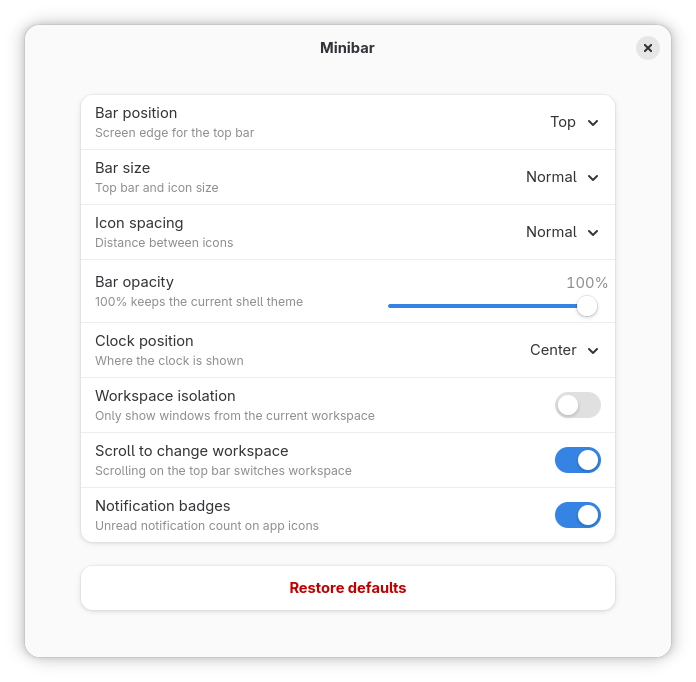
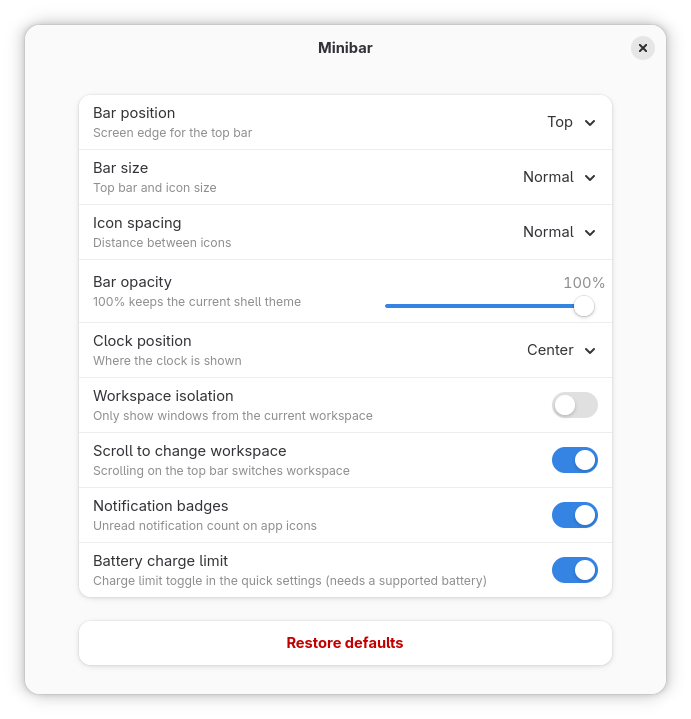
✨ Add battery charge limit toggle in quick settings
Mirror the Settings > Power "Battery Charge" switch as a Charge Limit quick
settings toggle, added only when UPower reports a battery whose firmware
supports charge thresholds. The composite DisplayDevice the shell talks to
always reports ChargeThresholdSupported=false, so the real battery device is
looked up once at enable() by enumerating UPower devices.

The checked state follows UPower (g-properties-changed), never the click, so
a failed call cannot leave the toggle lying and a change made from
gnome-control-center shows up live. Setting the limit needs no auth: the
polkit action is allow_active=yes.

Guarded by the new battery-toggle setting (on by default), applied live.
Settings tables in the README and the spec are reordered to match the prefs
window, and the settings screenshot is refreshed.

Claude-Session: https://claude.ai/code/session_0182kC322KZRRkmEopp2QtQc

diff --git a/src/battery.js b/src/battery.js
@@ -1,0 +1,160 @@
+import Gio from 'gi://Gio';
+import GObject from 'gi://GObject';
+import UPower from 'gi://UPowerGlib';
+
+import * as Main from 'resource:///org/gnome/shell/ui/main.js';
+import {QuickToggle, SystemIndicator} from 'resource:///org/gnome/shell/ui/quickSettings.js';
+
+const BUS_NAME = 'org.freedesktop.UPower';
+const OBJECT_PATH = '/org/freedesktop/UPower';
+
+const UPowerInterface = `
+<node>
+  <interface name="org.freedesktop.UPower">
+    <method name="EnumerateDevices">
+      <arg type="ao" direction="out" name="devices"/>
+    </method>
+  </interface>
+</node>`;
+
+// Only the members we use. The shell ships its own UPower.Device XML
+// (gnome-shell-dbus-interfaces) but it stops at ChargeThresholdEnabled: the
+// thresholds and EnableChargeThreshold() are not in it, so declare them here.
+// Note the composite /devices/DisplayDevice the shell talks to always reports
+// ChargeThresholdSupported=false — the real battery device is the only source.
+const DeviceInterface = `
+<node>
+  <interface name="org.freedesktop.UPower.Device">
+    <method name="EnableChargeThreshold">
+      <arg type="b" direction="in" name="enable"/>
+    </method>
+    <property name="Type" type="u" access="read"/>
+    <property name="ChargeStartThreshold" type="u" access="read"/>
+    <property name="ChargeEndThreshold" type="u" access="read"/>
+    <property name="ChargeThresholdEnabled" type="b" access="read"/>
+    <property name="ChargeThresholdSupported" type="b" access="read"/>
+  </interface>
+</node>`;
+
+const UPowerProxy = Gio.DBusProxy.makeProxyWrapper(UPowerInterface);
+const DeviceProxy = Gio.DBusProxy.makeProxyWrapper(DeviceInterface);
+
+/** Promisified proxy construction (the wrappers only take a callback). */
+function makeProxy(Wrapper, path) {
+    return new Promise((resolve, reject) => {
+        new Wrapper(Gio.DBus.system, BUS_NAME, path,
+            (proxy, error) => error ? reject(error) : resolve(proxy));
+    });
+}
+
+/**
+ * Quick settings toggle mirroring the "Battery Charge" switch of the
+ * Settings › Power panel: on = preserve battery health (UPower keeps the
+ * charge inside the firmware thresholds), off = charge to 100%.
+ */
+const ChargeLimitToggle = GObject.registerClass(
+class ChargeLimitToggle extends QuickToggle {
+    _init(proxy) {
+        super._init({
+            title: 'Charge Limit',
+            iconName: 'battery-good-symbolic',
+        });
+        this._proxy = proxy;
+
+        // No toggleMode: the checked state follows UPower, never the click,
+        // so a refused or failed call cannot leave the toggle lying.
+        this.connectObject('clicked', () => this._toggle(), this);
+        this._proxy.connectObject('g-properties-changed', () => this._sync(), this);
+        this._sync();
+    }
+
+    _toggle() {
+        this._proxy.EnableChargeThresholdAsync(!this.checked).catch(error => {
+            logError(error, 'minibar: cannot change the battery charge limit');
+            this._sync();
+        });
+    }
+
+    _sync() {
+        const checked = this._proxy.ChargeThresholdEnabled;
+        const end = this._proxy.ChargeEndThreshold;
+        this.set({
+            checked,
+            // Thresholds read 0 when the limit is off, and firmwares that only
+            // expose a start threshold report an end of 0 too.
+            subtitle: checked && end > 0 && end < 100 ? `${end}%` : '',
+        });
+    }
+});
+
+const ChargeLimitIndicator = GObject.registerClass(
+class ChargeLimitIndicator extends SystemIndicator {
+    _init(proxy) {
+        super._init();
+        this.quickSettingsItems.push(new ChargeLimitToggle(proxy));
+    }
+});
+
+/**
+ * Adds the charge limit toggle to the system quick settings, but only when
+ * UPower reports a battery whose firmware supports charge thresholds
+ * (desktops, older laptops and unsupported firmwares get nothing at all).
+ * The lookup runs once at enable(); batteries are not expected to hotplug.
+ */
+export class BatteryChargeLimit {
+    constructor(settings) {
+        this._settings = settings;
+        this._destroyed = false;
+        this._proxy = null;
+        this._indicator = null;
+
+        this._settings.connectObject(
+            'changed::battery-toggle', () => this._sync(), this);
+        this._findBattery().catch(error =>
+            logError(error, 'minibar: cannot query UPower'));
+    }
+
+    async _findBattery() {
+        const upower = await makeProxy(UPowerProxy, OBJECT_PATH);
+        const [paths] = await upower.EnumerateDevicesAsync();
+
+        for (const path of paths) {
+            if (this._destroyed)
+                return;
+            const device = await makeProxy(DeviceProxy, path);
+            if (device.Type === UPower.DeviceKind.BATTERY && device.ChargeThresholdSupported) {
+                this._proxy = device;
+                break;
+            }
+        }
+
+        if (!this._destroyed)
+            this._sync();
+    }
+
+    _sync() {
+        const wanted = this._proxy !== null &&
+            this._settings.get_boolean('battery-toggle');
+        if (wanted === (this._indicator !== null))
+            return;
+
+        if (wanted) {
+            this._indicator = new ChargeLimitIndicator(this._proxy);
+            Main.panel.statusArea.quickSettings.addExternalIndicator(this._indicator);
+        } else {
+            // The grid holds the items, the panel holds the indicator: both
+            // have to go (addExternalIndicator() has no counterpart).
+            this._indicator.quickSettingsItems.forEach(item => item.destroy());
+            this._indicator.destroy();
+            this._indicator = null;
+        }
+    }
+
+    destroy() {
+        this._destroyed = true;
+        this._settings.disconnectObject(this);
+        this._proxy = null;
+        this._sync();
+        this._settings = null;
+    }
+}

diff --git a/src/extension.js b/src/extension.js
@@ -1,18 +1,23 @@
 import {Extension} from 'resource:///org/gnome/shell/extensions/extension.js';
 import * as Main from 'resource:///org/gnome/shell/ui/main.js';
 
+import {BatteryChargeLimit} from './battery.js';
 import {NotificationsMonitor} from './notifications.js';
 import {Taskbar} from './taskbar.js';
 
 export default class TaskbarExtension extends Extension {
     enable() {
+        const settings = this.getSettings();
         this._notificationsMonitor = new NotificationsMonitor();
-        this._taskbar = new Taskbar(this._notificationsMonitor, this.getSettings());
+        this._taskbar = new Taskbar(this._notificationsMonitor, settings);
         // Last position of the left box, i.e. right of the workspace indicator.
         Main.panel._leftBox.add_child(this._taskbar);
+        this._batteryChargeLimit = new BatteryChargeLimit(settings);
     }
 
     disable() {
+        this._batteryChargeLimit?.destroy();
+        this._batteryChargeLimit = null;
         this._taskbar?.destroy();
         this._taskbar = null;
         this._notificationsMonitor?.destroy();

diff --git a/src/prefs.js b/src/prefs.js
@@ -88,6 +88,14 @@ export default class TaskbarPrefs extends ExtensionPreferences {
             Gio.SettingsBindFlags.DEFAULT);
         group.add(badgesRow);
 
+        const batteryRow = new Adw.SwitchRow({
+            title: 'Battery charge limit',
+            subtitle: 'Charge limit toggle in the quick settings (needs a supported battery)',
+        });
+        settings.bind('battery-toggle', batteryRow, 'active',
+            Gio.SettingsBindFlags.DEFAULT);
+        group.add(batteryRow);
+
         const resetGroup = new Adw.PreferencesGroup();
         page.add(resetGroup);
         const resetRow = new Adw.ButtonRow({title: 'Restore defaults'});

diff --git a/docs/specs/taskbar.md b/docs/specs/taskbar.md
@@ -114,18 +114,39 @@ Left and middle clicks trigger a short scale-bounce animation on the icon as fee
 
 GSettings schema `org.gnome.shell.extensions.minibar`, prefs window in libadwaita
 with a destructive **Restore defaults** button row at the bottom (resets every key),
-(one page, one group, three rows):
+(one page, one group, one row per key, in the order below):
 
-| Key                  | Type                           | Default  | Effect                                                                                                                                                             |
-| -------------------- | ------------------------------ | -------- | ------------------------------------------------------------------------------------------------------------------------------------------------------------------ |
-| `size`               | `normal` \| `large` \| `extra-large` | `normal` | **Bar size**: top bar height (native ~34px / 40px / 46px) AND icon (24px / 28px / 32px), kept proportional. Non-normal sizes add the matching `minibar-panel-large` / `minibar-panel-extra-large` style class on `Main.panel` (not an inline style: the overview clears `Main.panel.style`), removed on disable     |
-| `spacing`            | `small` \| `normal` \| `large` | `normal` | **Icon spacing**: drives box spacing AND button padding (CSS classes); resulting gap between icons ≈ 4px / 10px / 18px. Small keeps icons close but never touching |
-| `opacity`            | int `0`-`100`, 10% steps       | `100`    | **Bar opacity**: `100` keeps the native theme (no class); below, flat black via `minibar-opacity-N` classes in 10% steps, same not-inline-style pattern as `size`  |
-| `bar-position`       | `top` \| `bottom`              | `top`    | Anchor the whole GNOME panel to the top or bottom screen edge (primary monitor)                                                                                    |
-| `clock-position`     | `center` \| `right`            | `center` | Clock (dateMenu) in the center box or at the left end of the right box; restored to center on disable                                                              |
-| `isolate-workspaces` | bool                           | false    | Only show/count windows of the active workspace                                                                                                                    |
-| `notification-badges` | bool | true | Show the unread notification badge on icons (the MessageTray monitor stays connected either way — accepted trade-off for simplicity) |
-| `scroll-workspace`   | bool                           | true     | Scroll on the top bar switches workspace                                                                                                                           |
+| Key                   | Type                                 | Default  | Effect                                                                                                                                                                                                                                                                                                          |
+| --------------------- | ------------------------------------ | -------- | --------------------------------------------------------------------------------------------------------------------------------------------------------------------------------------------------------------------------------------------------------------------------------------------------------------- |
+| `bar-position`        | `top` \| `bottom`                    | `top`    | Anchor the whole GNOME panel to the top or bottom screen edge (primary monitor)                                                                                                                                                                                                                                 |
+| `size`                | `normal` \| `large` \| `extra-large` | `normal` | **Bar size**: top bar height (native ~34px / 40px / 46px) AND icon (24px / 28px / 32px), kept proportional. Non-normal sizes add the matching `minibar-panel-large` / `minibar-panel-extra-large` style class on `Main.panel` (not an inline style: the overview clears `Main.panel.style`), removed on disable |
+| `spacing`             | `small` \| `normal` \| `large`       | `normal` | **Icon spacing**: drives box spacing AND button padding (CSS classes); resulting gap between icons ≈ 4px / 10px / 18px. Small keeps icons close but never touching                                                                                                                                              |
+| `opacity`             | int `0`-`100`, 10% steps             | `100`    | **Bar opacity**: `100` keeps the native theme (no class); below, flat black via `minibar-opacity-N` classes in 10% steps, same not-inline-style pattern as `size`                                                                                                                                               |
+| `clock-position`      | `center` \| `right`                  | `center` | Clock (dateMenu) in the center box or at the left end of the right box; restored to center on disable                                                                                                                                                                                                           |
+| `isolate-workspaces`  | bool                                 | false    | Only show/count windows of the active workspace                                                                                                                                                                                                                                                                 |
+| `scroll-workspace`    | bool                                 | true     | Scroll on the top bar switches workspace                                                                                                                                                                                                                                                                        |
+| `notification-badges` | bool                                 | true     | Show the unread notification badge on icons (the MessageTray monitor stays connected either way — accepted trade-off for simplicity)                                                                                                                                                                            |
+| `battery-toggle`      | bool                                 | true     | Add the battery charge limit toggle to the system quick settings (§2.8); ignored when no supported battery is detected                                                                                                                                                                                          |
+
+### 2.8 Battery charge limit (quick settings)
+
+Not a taskbar feature but a small system add-on, kept because it is ~160 lines of
+public API for something the shell only exposes deep in Settings › Power.
+
+- A **Charge Limit toggle** is added to the **system quick settings**, and only if
+  UPower reports a battery whose firmware supports charge thresholds
+  (`ChargeThresholdSupported`). No battery, unsupported firmware, or
+  `battery-toggle` off → nothing is added at all.
+- It mirrors the "Battery Charge" switch of Settings › Power: **on** = preserve
+  battery health (charging stops at the firmware threshold), **off** = charge to
+  100%. The subtitle shows the end threshold (`80%`) while the limit is active.
+- The checked state follows **UPower**, never the click (`g-properties-changed` →
+  resync, `toggleMode` deliberately off): a failed or refused call leaves the toggle
+  where it was, and a change made from gnome-control-center shows up live.
+- Setting the limit needs no authentication: the polkit action
+  `org.freedesktop.UPower.enable-charging-limit` is `allow_active=yes`.
+- The battery lookup runs **once**, asynchronously, at `enable()` — a battery
+  hotplug is not handled (disable/enable the extension to re-run it).
 
 ## 3. Technical specification
 
@@ -147,6 +168,7 @@ src/                       # everything the shell loads (install symlink / zip t
   appButton.js             # per-app button: St.Icon + indicators + badge + gestures
   notifications.js         # MessageTray monitor → Map appId→count
   windowPreview.js         # hover popup: one clickable Clutter.Clone per window
+  battery.js               # UPower charge-limit toggle in the system quick settings
   prefs.js                 # Adw preferences window
   schemas/                 # gschema XML + compiled
   stylesheet.css
@@ -161,18 +183,20 @@ docs/specs/taskbar.md      # this spec
 
 ### 3.3 GNOME Shell (49-50) APIs to use
 
-| Need          | API                                                                                                               |
-| ------------- | ----------------------------------------------------------------------------------------------------------------- |
-| Favorites     | `AppFavorites.getAppFavorites()` + `changed` signal                                                               |
-| Apps/windows  | `Shell.AppSystem.get_default()` (`app-state-changed`), `Shell.WindowTracker.get_default().get_window_app()`       |
-| Windows       | `global.display` (`window-created`, `notify::focus-window`), `Meta.Window` (`unmanaging`, `notify::skip-taskbar`) |
-| Widgets       | `St.BoxLayout` (`orientation` prop, not `vertical`), `St.Icon`, `St.Bin`, `St.DrawingArea` + Cairo for the dashes |
-| Clicks        | **`Clutter.ClickGesture`** (`recognize` signal) — `Clutter.ClickAction` is dead in 49+                            |
-| Panel         | `Main.panel._leftBox.insert_child_at_index()`                                                                     |
-| Menu          | `AppMenu` (`resource:///org/gnome/shell/ui/appMenu.js`) + `PopupMenuManager`                                      |
-| Notifications | `Main.messageTray` (`source-added`/`source-removed`, `notification-added`, `notify::acknowledged`)                |
-| Signals       | `connectObject()` / `disconnectObject()` everywhere                                                               |
-| Timers        | `GLib.idle_add_once` for batched redisplays                                                                       |
+| Need           | API                                                                                                                                                                                              |
+| -------------- | ------------------------------------------------------------------------------------------------------------------------------------------------------------------------------------------------ |
+| Favorites      | `AppFavorites.getAppFavorites()` + `changed` signal                                                                                                                                              |
+| Apps/windows   | `Shell.AppSystem.get_default()` (`app-state-changed`), `Shell.WindowTracker.get_default().get_window_app()`                                                                                      |
+| Windows        | `global.display` (`window-created`, `notify::focus-window`), `Meta.Window` (`unmanaging`, `notify::skip-taskbar`)                                                                                |
+| Widgets        | `St.BoxLayout` (`orientation` prop, not `vertical`), `St.Icon`, `St.Bin`, `St.DrawingArea` + Cairo for the dashes                                                                                |
+| Clicks         | **`Clutter.ClickGesture`** (`recognize` signal) — `Clutter.ClickAction` is dead in 49+                                                                                                           |
+| Panel          | `Main.panel._leftBox.insert_child_at_index()`                                                                                                                                                    |
+| Menu           | `AppMenu` (`resource:///org/gnome/shell/ui/appMenu.js`) + `PopupMenuManager`                                                                                                                     |
+| Notifications  | `Main.messageTray` (`source-added`/`source-removed`, `notification-added`, `notify::acknowledged`)                                                                                               |
+| Quick settings | `QuickToggle`/`SystemIndicator` (`ui/quickSettings.js`) + `Main.panel.statusArea.quickSettings.addExternalIndicator()`                                                                           |
+| Battery        | UPower system bus: `EnumerateDevices`, `org.freedesktop.UPower.Device` (`ChargeThresholdSupported`/`Enabled`, `ChargeEndThreshold`, `EnableChargeThreshold()`), kind check via `gi://UPowerGlib` |
+| Signals        | `connectObject()` / `disconnectObject()` everywhere                                                                                                                                              |
+| Timers         | `GLib.idle_add_once` for batched redisplays                                                                                                                                                      |
 
 ### 3.4 Reconciliation logic (core of the extension)
 
@@ -217,16 +241,17 @@ Feature/LOC ratio and expected fragility across GNOME versions — the arbitrati
 guide when a release breaks something (KISS: a high-risk feature that breaks is a
 candidate for removal, not for growing compat shims):
 
-| Feature                          | ~LOC | Risk     | Fragile point                                                                                                                                                     |
-| -------------------------------- | ---- | -------- | ----------------------------------------------------------------------------------------------------------------------------------------------------------------- |
-| Core (favorites+running, clicks) | 350  | low      | stable public APIs                                                                                                                                                |
-| Dash indicators (Cairo)          | 50   | low      | self-contained                                                                                                                                                    |
-| Workspace isolation              | 30   | low      | stable API                                                                                                                                                        |
-| Settings/prefs                   | 110  | low      | Adwaita stable                                                                                                                                                    |
-| Scroll + OSD                     | 45   | medium−  | `WorkspaceSwitcherPopup.display()` signature already changed once                                                                                                 |
-| Notification badge               | 90   | medium   | MessageTray internals churn regularly                                                                                                                             |
-| `ClickGesture`                   | 15   | medium   | API introduced in 49, still young                                                                                                                                 |
-| Hover previews                   | 155  | medium   | grab/hover interactions via `PopupMenuManager`                                                                                                                    |
-| Clock position                   | 15   | medium+  | moves private panel children (`statusArea.dateMenu`)                                                                                                              |
-| Bar opacity                      | 25   | medium   | hardcodes the panel background color (was 100% theme-driven); panel corners (`PanelCorner`) match the theme's color, unverified against an override               |
-| Bar position bottom              | 20   | **HIGH** | fights `LayoutManager._updateBoxes`; the shell assumes a top panel (hot corner, overview animations, OSD placement). First candidate for removal if it misbehaves |
+| Feature                          | ~LOC | Risk     | Fragile point                                                                                                                                                                   |
+| -------------------------------- | ---- | -------- | ------------------------------------------------------------------------------------------------------------------------------------------------------------------------------- |
+| Core (favorites+running, clicks) | 350  | low      | stable public APIs                                                                                                                                                              |
+| Dash indicators (Cairo)          | 50   | low      | self-contained                                                                                                                                                                  |
+| Workspace isolation              | 30   | low      | stable API                                                                                                                                                                      |
+| Settings/prefs                   | 110  | low      | Adwaita stable                                                                                                                                                                  |
+| Scroll + OSD                     | 45   | medium−  | `WorkspaceSwitcherPopup.display()` signature already changed once                                                                                                               |
+| Notification badge               | 90   | medium   | MessageTray internals churn regularly                                                                                                                                           |
+| `ClickGesture`                   | 15   | medium   | API introduced in 49, still young                                                                                                                                               |
+| Hover previews                   | 155  | medium   | grab/hover interactions via `PopupMenuManager`                                                                                                                                  |
+| Clock position                   | 15   | medium+  | moves private panel children (`statusArea.dateMenu`)                                                                                                                            |
+| Bar opacity                      | 25   | medium   | hardcodes the panel background color (was 100% theme-driven); panel corners (`PanelCorner`) match the theme's color, unverified against an override                             |
+| Battery charge limit             | 160  | medium   | UPower's `ChargeThreshold*` API is young (1.90+, and the shell's own interface XML does not carry it yet); `addExternalIndicator()` is public, the grid layout behind it is not |
+| Bar position bottom              | 20   | **HIGH** | fights `LayoutManager._updateBoxes`; the shell assumes a top panel (hot corner, overview animations, OSD placement). First candidate for removal if it misbehaves               |

diff --git a/README.md b/README.md
@@ -14,8 +14,8 @@ the left of the top bar — nothing more.
   other running apps, one icon per app.
 - 💄 **Dashes** under each icon: one per open window, accent color when focused.
 - ✨ **A few extras**: notification badges on icons, scroll on the bar to switch
-  workspace, adjustable bar opacity, size and position, clock position... maybe
-  more, but not too much.
+  workspace, adjustable bar opacity, size and position, clock position, a battery
+  charge limit toggle in the quick settings... maybe more, but not too much.
 - 🧩 **Stock GNOME everywhere else**: native app menus, native workspace OSD, native
   panel — Minibar adds a taskbar, it does not reskin the shell.
 
@@ -88,12 +88,13 @@ the bar feels, and hardcodes the rest.
 | -------------------------- | -------------------------------------------------------------- | ------- |
 | Bar position               | top · bottom                                                   | top     |
 | Bar size                   | normal · large · extra large (bar and icons stay proportional) | normal  |
-| Bar opacity                | 0 · 10 · ... · 100, 10% steps                                  | 100     |
 | Icon spacing               | small · normal · large                                         | normal  |
+| Bar opacity                | 0 · 10 · ... · 100, 10% steps                                  | 100     |
 | Clock position             | center · right                                                 | center  |
 | Workspace isolation        | on · off                                                       | off     |
-| Notification badges        | on · off                                                       | on      |
 | Scroll to change workspace | on · off                                                       | on      |
+| Notification badges        | on · off                                                       | on      |
+| Battery charge limit       | on · off (quick settings toggle, needs a supported battery)    | on      |
 
 
 ## Author's note
